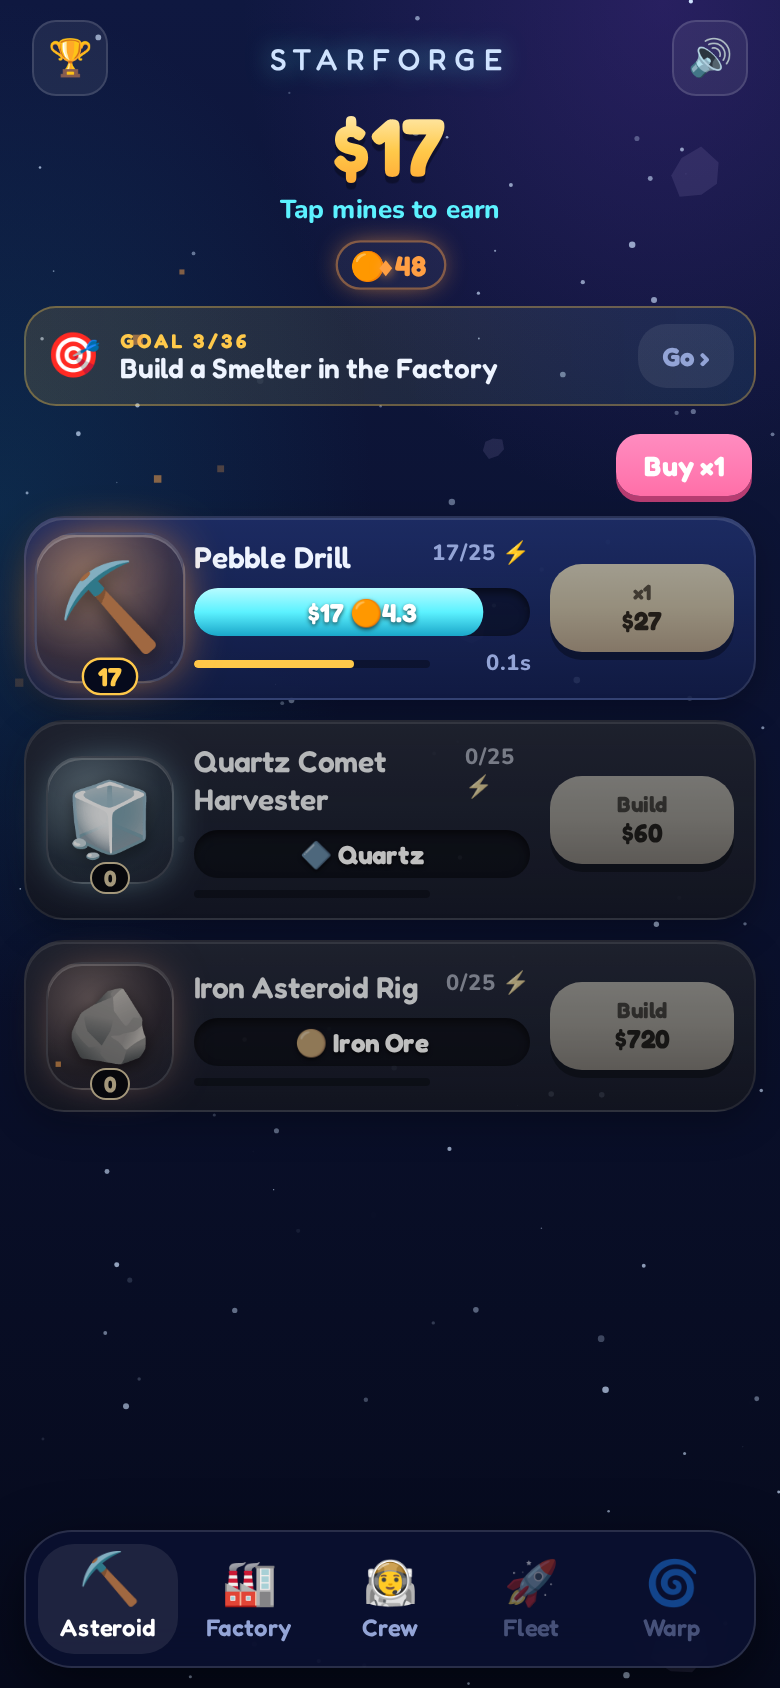
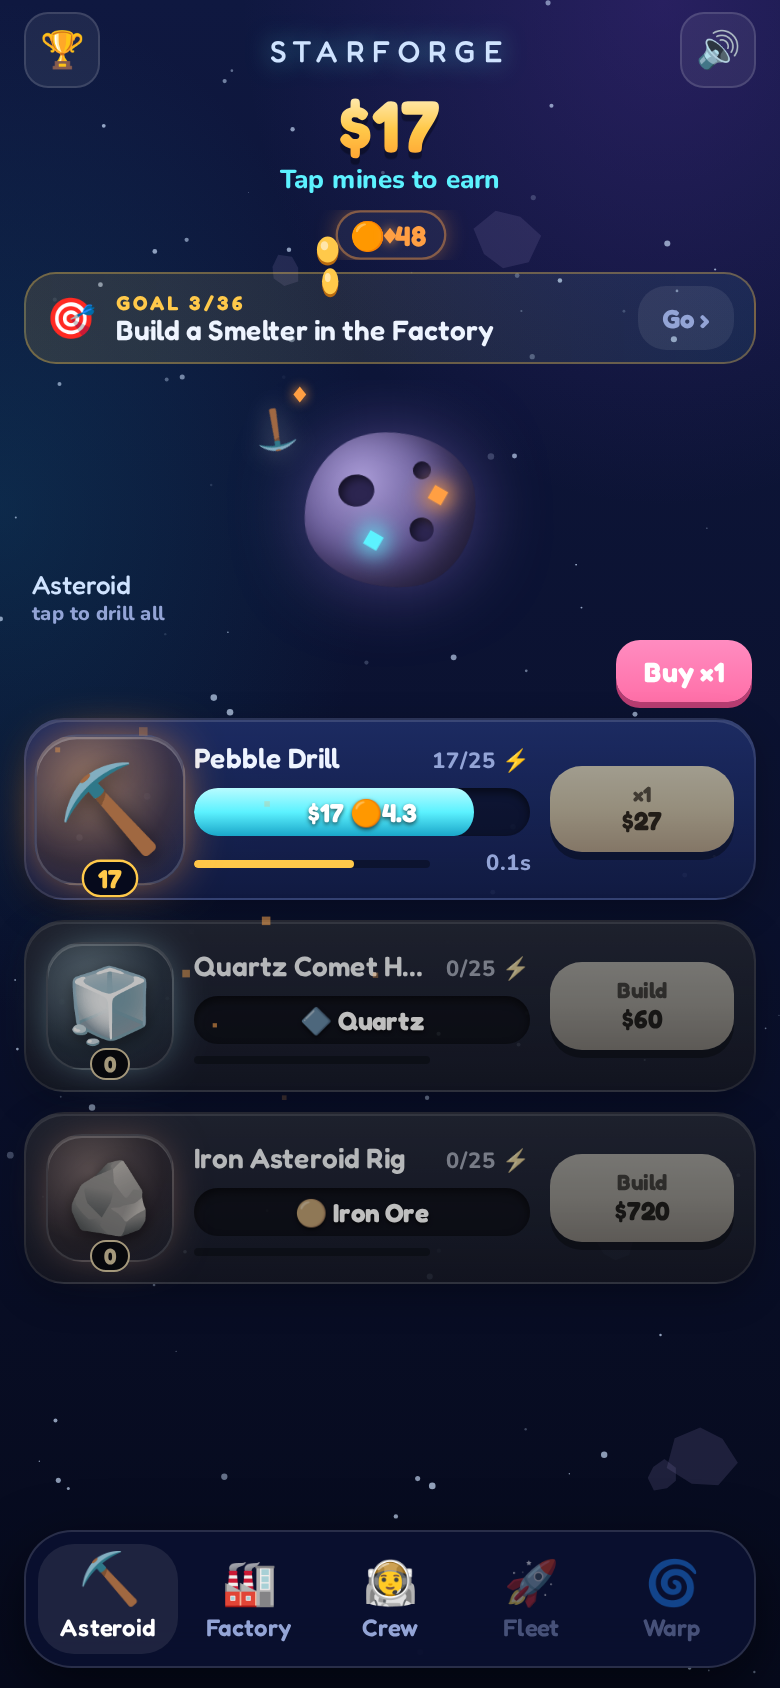
Review round 3: asteroid hero, fleet layout, copy

diff --git a/src/main.ts b/src/main.ts
@@ -74,7 +74,9 @@ type Card = { root: HTMLElement; fill: HTMLElement; bt: HTMLElement; buy: HTMLBu
 let cards: Card[] = [];
 const visibleMines = () => { let k = 0; for (let i = 0; i < MINES.length; i++) { k = i + 1; if (st().mines[i].n === 0) break; } return Math.min(MINES.length, k + 1); };
 function renderMine() {
-  main.innerHTML = `<div class="buyrow"><div class="hint"></div>${multBtn()}</div>`;
+  const built = MINES.filter((_, i) => st().mines[i].n > 0);
+  main.innerHTML = `<div class="roidwrap" id="roid"><div class="orbit">${built.map((d, k) => `<i style="--a:${k / built.length * 360}deg">${d.e}</i>`).join('')}</div><div class="roid"><span></span><span></span><span></span><b></b><b></b></div><div class="roidtxt h">Asteroid <small>tap to drill all</small></div></div><div class="buyrow"><div class="hint"></div>${multBtn()}</div>`;
+  $('#roid').addEventListener('pointerdown', ev => { let any = false; st().mines.forEach((b, i) => { if (b.n && !b.m && !b.run) { b.run = true; any = true; } void i; }); st().taps++; const r = $('.roid'); r.classList.remove('hit'); void r.offsetWidth; r.classList.add('hit'); burst(ev.clientX, ev.clientY, 12, 0, '#ff9f43'); if (any) { sfx.drill(); buzz(12); } else sfx.tap(); });
   cards = [];
   for (let i = 0; i < visibleMines(); i++) {
     const d = MINES[i], el = document.createElement('div'); el.className = 'biz'; el.style.animationDelay = i * 35 + 'ms'; el.style.setProperty('--h', String(d.hue));
@@ -209,10 +211,10 @@ function renderFleet() {
   main.innerHTML = `<div class="power card"><div><small>FLEET POWER</small><b class="h" id="fp"></b></div><div class="docks" id="docks"></div></div>
   <div class="seg"><span>Send</span>${[[1, 'Lean ×1'], [1.4, 'Safe ×1.4'], [2, 'Overwhelming ×2']].map(([g, n]) => `<button data-greed="${g}" class="${greed === g ? 'on' : ''}">${n}</button>`).join('')}</div>
   <div id="missions"></div>
-  <div class="sec">Salvage runs <span class="sech">repeatable</span></div>${RUNS.map(r => `<div class="row mis" data-run="${r.id}"><div class="ico sm">${r.e}</div><div class="mid"><div class="name">${r.name}</div><p>⚔${r.need} · ${fmtT(G.missionTime(r.time))} · <span class="lootp" data-loot="${r.id}"></span></p><p class="ch"></p></div><button class="btn"></button></div>`).join('')}
-  <div class="sec">Conquest <span class="sech">permanent bonuses</span></div>${PLANETS.map((p, k) => { const done = s.conquered.includes(p.id), open = k === 0 || s.conquered.includes(PLANETS[k - 1].id);
-    return `<div class="row mis planet ${done ? 'done' : ''} ${!open ? 'dim' : ''}" data-planet="${p.id}"><div class="ico sm">${p.e}</div><div class="mid"><div class="name">${open ? p.name : 'Unknown world'}</div><p>${done ? `🏳 Yours · profit ×${p.bonus}, ore +50%` : open ? `${p.desc}<br>⚔${p.need} · ${fmtT(G.missionTime(p.time))} · profit <b class="x">×${p.bonus}</b>` : 'Conquer the previous planet'}</p><p class="ch"></p></div>${done ? '<span class="ok">🏳</span>' : open ? '<button class="btn gold"></button>' : ''}</div>`; }).join('')}
   <div class="sec">Shipyard</div>${SHIPS.map(sh => `<div class="row" data-ship="${sh.id}"><div class="ico sm">${sh.e}</div><div class="mid"><div class="name">${sh.name} <small class="own"></small></div><p>⚔ ${sh.power} power</p></div><button class="btn sb"></button></div>`).join('')}
+  <div class="sec">Salvage runs <span class="sech">repeatable</span></div>${RUNS.map(r => `<div class="row mis" data-run="${r.id}"><div class="ico sm">${r.e}</div><div class="mid"><div class="name">${r.name}</div><p>⚔${r.need} · ${fmtT(G.missionTime(r.time))} · <span class="lootp" data-loot="${r.id}"></span></p><p class="ch"></p></div><button class="btn"></button></div>`).join('')}
+  <div class="sec">Conquest <span class="sech">permanent bonuses</span></div>${PLANETS.map((p, k) => { const done = s.conquered.includes(p.id), open = k === 0 || s.conquered.includes(PLANETS[k - 1].id); if (!open && k > 0 && !(k - 1 === 0 || s.conquered.includes(PLANETS[k - 2].id))) return '';
+    return `<div class="row mis planet ${done ? 'done' : ''} ${!open ? 'dim' : ''}" data-planet="${p.id}"><div class="ico sm">${p.e}</div><div class="mid"><div class="name">${open ? p.name : 'Unknown world'}</div><p>${done ? `🏳 Yours · profit ×${p.bonus}, ore +50%` : open ? `${p.desc}<br>⚔${p.need} · ${fmtT(G.missionTime(p.time))} · profit <b class="x">×${p.bonus}</b>` : 'Conquer the previous planet'}</p><p class="ch"></p></div>${done ? '<span class="ok">🏳</span>' : open ? '<button class="btn gold"></button>' : ''}</div>`; }).join('')}
   <div class="sec">Fleet upgrades</div>${FLEET_UPG.map(u => `<div class="row" data-fu="${u.id}"><div class="ico sm">${u.e}</div><div class="mid"><div class="name">${u.name} <small class="own"></small></div><p>${u.desc}</p></div><button class="btn gold sb"></button></div>`).join('')}`;
   main.querySelectorAll<HTMLElement>('[data-greed]').forEach(b => b.addEventListener('click', () => { greed = +b.dataset.greed!; sfx.tap(); buzz(6); main.querySelectorAll('[data-greed]').forEach(x => x.classList.toggle('on', x === b)); }));
   main.querySelectorAll<HTMLElement>('[data-ship]').forEach(row => { const id = row.dataset.ship!, b = $<HTMLButtonElement>('button', row); b.addEventListener('click', ev => { const c = G.shipCost(id); if (!G.canAfford(c)) return deny(b); G.pay(c); s.ships[id] = (s.ships[id] || 0) + 1; sfx.launch(); buzz([20, 20, 40]); rocket(ev.clientX, ev.clientY - 20); burst(ev.clientX, ev.clientY, 14); }); });
@@ -229,7 +231,7 @@ function updateFleet() {
     setT(b, busy ? 'En route' : s.missions.length >= G.docks() ? 'Docks full' : row.dataset.run ? 'Launch' : 'Invade'); b.disabled = busy || ch <= 0 || s.missions.length >= G.docks();
     setT(row.querySelector('.ch'), busy ? '' : ch > 0 ? `<span class="${ch > 0.9 ? 'good' : ch > 0.7 ? 'mid' : 'risk'}">${Math.round(ch * 100)}% success</span> with ⚔${power}` : `<span class="risk">Need ⚔${def.need} idle</span>`, true); });
   main.querySelectorAll<HTMLElement>('[data-loot]').forEach(el => { const r = RUNS.find(x => x.id === el.dataset.loot)!; setT(el, Object.entries(r.loot).map(([k, v]) => RES[k as Res].e + fmt(v! * (1 + s.conquered.length * 0.5) + G.prodRate(k as Res) * r.time * 1.5)).join(' ')); });
-  main.querySelectorAll<HTMLElement>('[data-ship]').forEach(row => { const id = row.dataset.ship!, b = $<HTMLButtonElement>('button', row), c = G.shipCost(id); setT(b, costStr(c), true); b.disabled = !G.canAfford(c); setT($('.own', row), `${G.idle(id)}/${s.ships[id] || 0}`); });
+  main.querySelectorAll<HTMLElement>('[data-ship]').forEach(row => { const id = row.dataset.ship!, b = $<HTMLButtonElement>('button', row), c = G.shipCost(id); setT(b, costStr(c), true); b.disabled = !G.canAfford(c); setT($('.own', row), (s.ships[id] || 0) ? `×${s.ships[id]}${G.away(id) ? ` · ${G.away(id)} away` : ''}` : ''); });
   main.querySelectorAll<HTMLElement>('[data-fu]').forEach(row => { const id = row.dataset.fu!, u = FLEET_UPG.find(x => x.id === id)!, b = $<HTMLButtonElement>('button', row); const max = G.fu(id) >= u.max; setT($('.own', row), `Lv ${G.fu(id)}/${u.max}`); setT(b, max ? 'MAX' : costStr({ [u.res]: G.fuCost(id) }), true); b.disabled = max || !G.canAfford({ [u.res]: G.fuCost(id) }); });
 }
 function missionsTick() {
@@ -299,7 +301,7 @@ function frame(now: number) {
   if (now - lastSlow > 600) { lastSlow = now; if (acc > 0 && tab === 'mine' && G.perSec() > 0) { const r = cashEl.getBoundingClientRect(); popup(r.right + 14, r.top + 22, '+$' + fmt(acc), '#5cf2ff'); } acc = 0; }
   // header
   setT(cashEl, '$' + fmt(s.cash));
-  setT(rateEl, G.perSec() > 0 ? `+$${fmt(G.perSec())}/s` : 'Tap mines to earn');
+  setT(rateEl, G.perSec() > 0 ? `+$${fmt(G.perSec())}/s` : !s.taps ? 'Tap a mine to start' : s.life < 500 ? 'Tap mines to earn' : 'Hire foremen in Crew to earn while idle');
   setT($('#dm'), fmt(s.dm, 0));
   RES_ORDER.forEach(r => { shown[r] += (s.res[r] - shown[r]) * Math.min(1, dt * 10); const el = resEl(r); setT($('span', el), fmt(shown[r])); el.classList.toggle('hide', s.res[r] < 0.5 && s.made[r] === 0 && !MINES.some((m, i) => m.res === r && s.mines[i].n)); });
   if (tab === 'mine') updateMine(); else if (tab === 'fac') updateFac();

diff --git a/src/style.css b/src/style.css
@@ -176,3 +176,17 @@ header{padding:calc(var(--st) + 6px) 12px 6px}
 .name{align-items:baseline}.name>span{overflow:hidden;text-overflow:ellipsis;white-space:nowrap;min-width:0}.name small{flex:none;white-space:nowrap}
 .biz .name{font-size:14px}
 .buyrow{margin:0 2px 8px}
+
+.roidwrap{position:relative;height:118px;margin:2px 0 6px;display:grid;place-items:center;touch-action:manipulation}
+.roid{position:relative;width:86px;height:78px;border-radius:46% 54% 42% 58%/55% 45% 55% 45%;background:radial-gradient(circle at 35% 30%,#a99bd6,#5b4f8c 55%,#2c2550);box-shadow:0 0 40px -6px #b08cff88,inset -10px -8px 18px #0007;animation:roidspin 24s linear infinite;transition:transform .12s}
+.roid.hit{animation:roidspin 24s linear infinite,roidhit .2s cubic-bezier(.3,1.8,.5,1)}
+@keyframes roidhit{50%{scale:.88}}
+@keyframes roidspin{to{rotate:360deg}}
+.roid span{position:absolute;border-radius:50%;background:#2c2550;box-shadow:inset 2px 2px 4px #0008}
+.roid span:nth-child(1){width:18px;height:16px;left:18px;top:20px}.roid span:nth-child(2){width:12px;height:12px;left:52px;top:44px}.roid span:nth-child(3){width:9px;height:9px;left:56px;top:16px}
+.roid b{position:absolute;width:7px;height:7px;transform:rotate(45deg);background:#5cf2ff;box-shadow:0 0 10px 2px #5cf2ff;animation:pulse 1.8s ease-in-out infinite}
+.roid b:nth-of-type(1){left:30px;top:50px}.roid b:nth-of-type(2){left:64px;top:30px;background:#ff9f43;box-shadow:0 0 10px 2px #ff9f43;animation-delay:.6s}
+.orbit{position:absolute;inset:0;animation:roidspin 40s linear infinite;pointer-events:none}
+.orbit i{position:absolute;left:50%;top:50%;font-style:normal;font-size:18px;transform:rotate(var(--a)) translate(68px) rotate(calc(-1 * var(--a)));margin:-11px;filter:drop-shadow(0 0 6px #fff6)}
+.roidtxt{position:absolute;left:4px;bottom:0;font-size:13px;color:#cfe3ff}.roidtxt small{display:block;font:800 10px Nunito;color:var(--dim)}
+.power{padding:10px 14px}.power b{font-size:22px}
